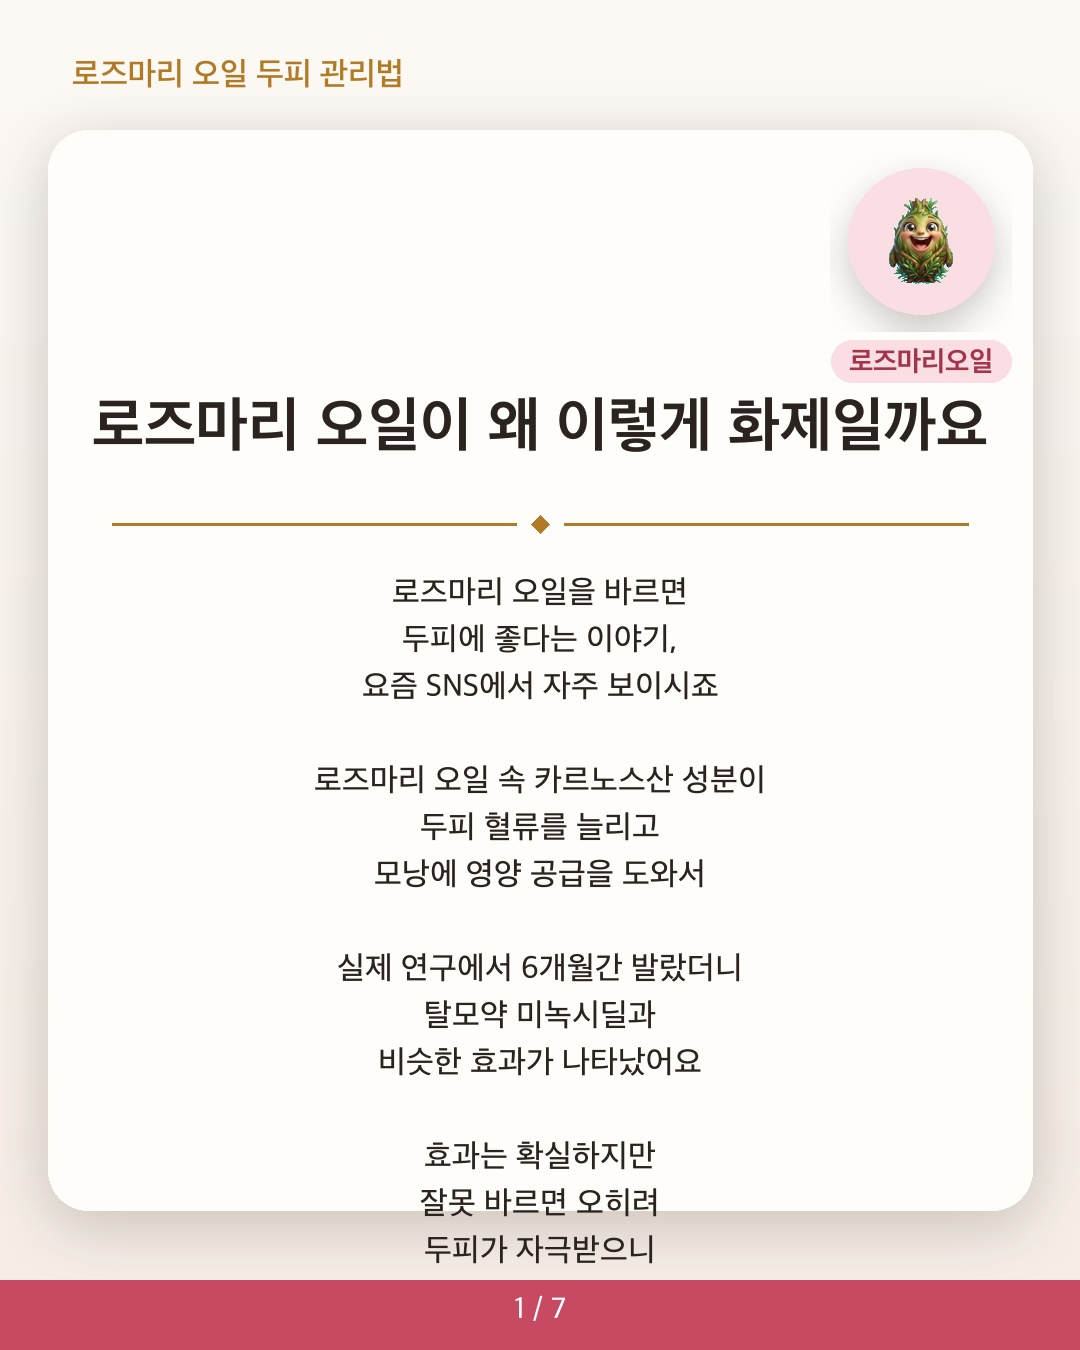
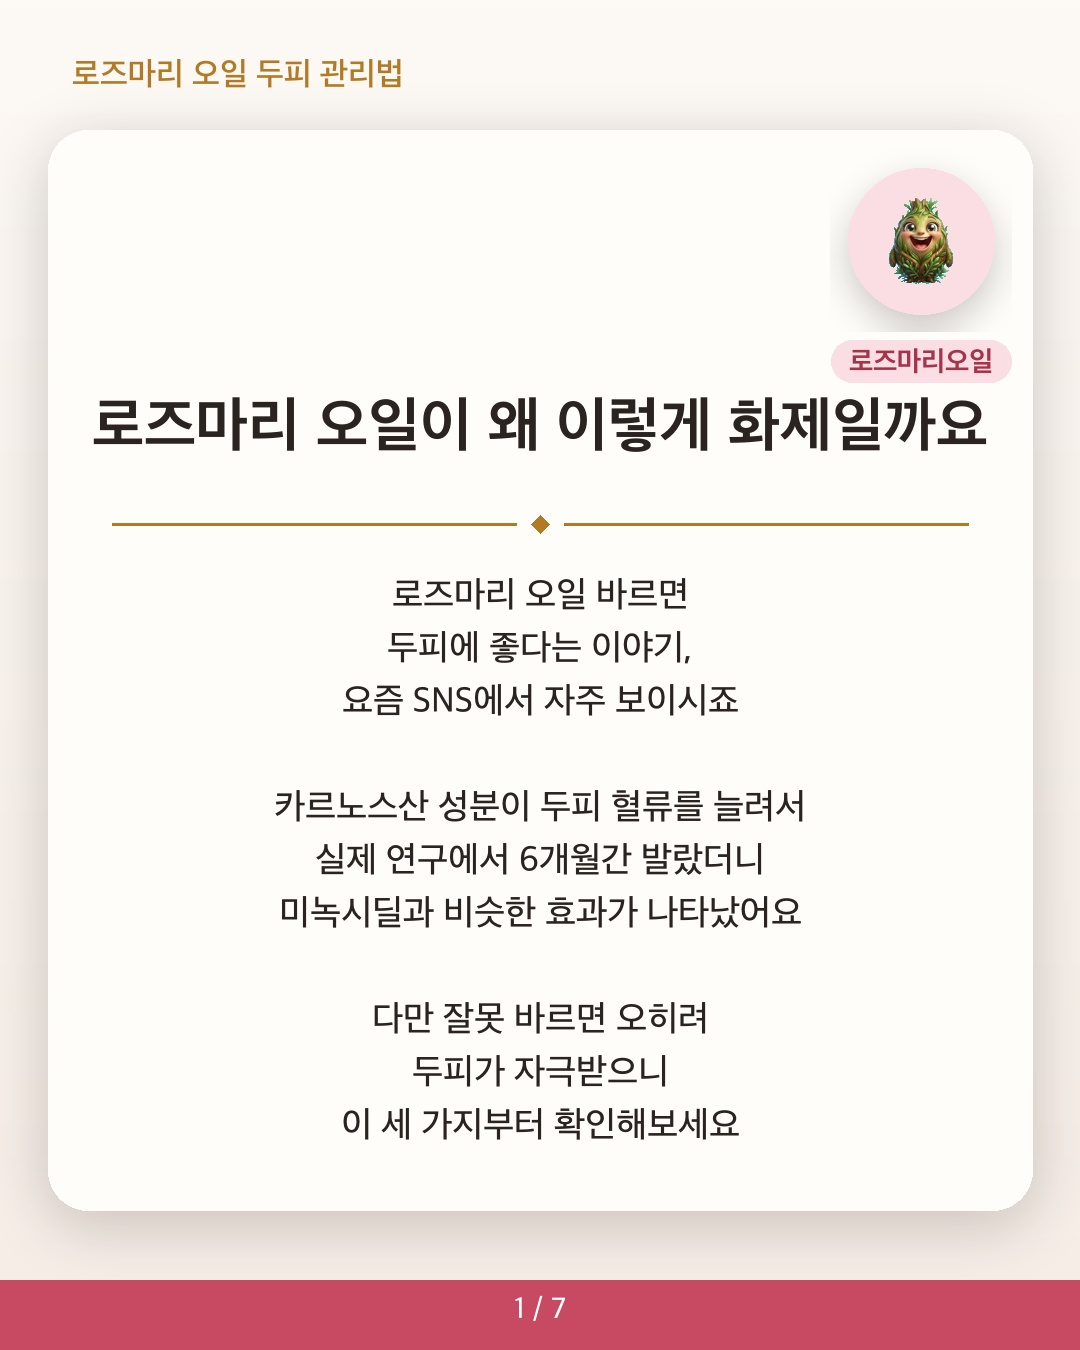
fix(머리_13): 표지 다음 카드(01) 본문 텍스트가 패널 밖으로 잘리던 문제 수정
item[0] body가 다른 카드 대비 과도하게 길어(18줄) _fit_multiline_block_size의
min_size(32px) 한계로도 패널 높이 안에 안 들어가 마지막 두 줄이 하단 배너에
가려 잘렸다. 다른 카드와 비슷한 분량(11줄)으로 줄이고 캡션의 대응 문단도 함께
수정, 카드뉴스 이미지·대시보드 재생성.

Changed region(s): [[0.2444, 0.56, 0.7333, 0.9333], [0.3056, 0.4044, 0.6722, 0.5289]]

diff --git a/output/머리_13/ko/dashboard.html b/output/머리_13/ko/dashboard.html
@@ -304,12 +304,12 @@
 00 · 표지
 
 
-로즈마리 오일을 바르면 두피에 좋다는 이야기, 요즘 SNS에서 자주 보이시죠. 로즈마리 오일 속 카르노스산 성분이 두피 혈류를 늘리고 모낭에 영양 공급을 도와서, 실제 연구에서 6개월간 발랐더니 탈모약 미녹시딜과 비슷한 효과가 나타났어요. 효과는 확실하지만 잘못 바르면 오히려 두피가 자극받으니, 이 세 가지부터 확인해보세요.
+로즈마리 오일 바르면 두피에 좋다는 이야기, 요즘 SNS에서 자주 보이시죠. 카르노스산 성분이 두피 혈류를 늘려서 실제 연구에서 6개월간 발랐더니 미녹시딜과 비슷한 효과가 나타났어요. 다만 잘못 바르면 오히려 두피가 자극받으니 이 세 가지부터 확인해보세요.
 
 01 · 로즈마리 오일이 왜 이렇게 화제일까요
 
 
-로즈마리 오일을 바르면 두피에 좋다는 이야기, 요즘 SNS에서 자주 보이시죠. 로즈마리 오일 속 카르노스산 성분이 두피 혈류를 늘리고 모낭에 영양 공급을 도와서, 실제 연구에서 6개월간 발랐더니 탈모약 미녹시딜과 비슷한 효과가 나타났어요. 효과는 확실하지만 잘못 바르면 오히려 두피가 자극받으니, 이 세 가지부터 확인해보세요.
+로즈마리 오일 바르면 두피에 좋다는 이야기, 요즘 SNS에서 자주 보이시죠. 카르노스산 성분이 두피 혈류를 늘려서 실제 연구에서 6개월간 발랐더니 미녹시딜과 비슷한 효과가 나타났어요. 다만 잘못 바르면 오히려 두피가 자극받으니 이 세 가지부터 확인해보세요.
 
 02 · 원액 그대로 두피에 듬뿍 바르기
 
